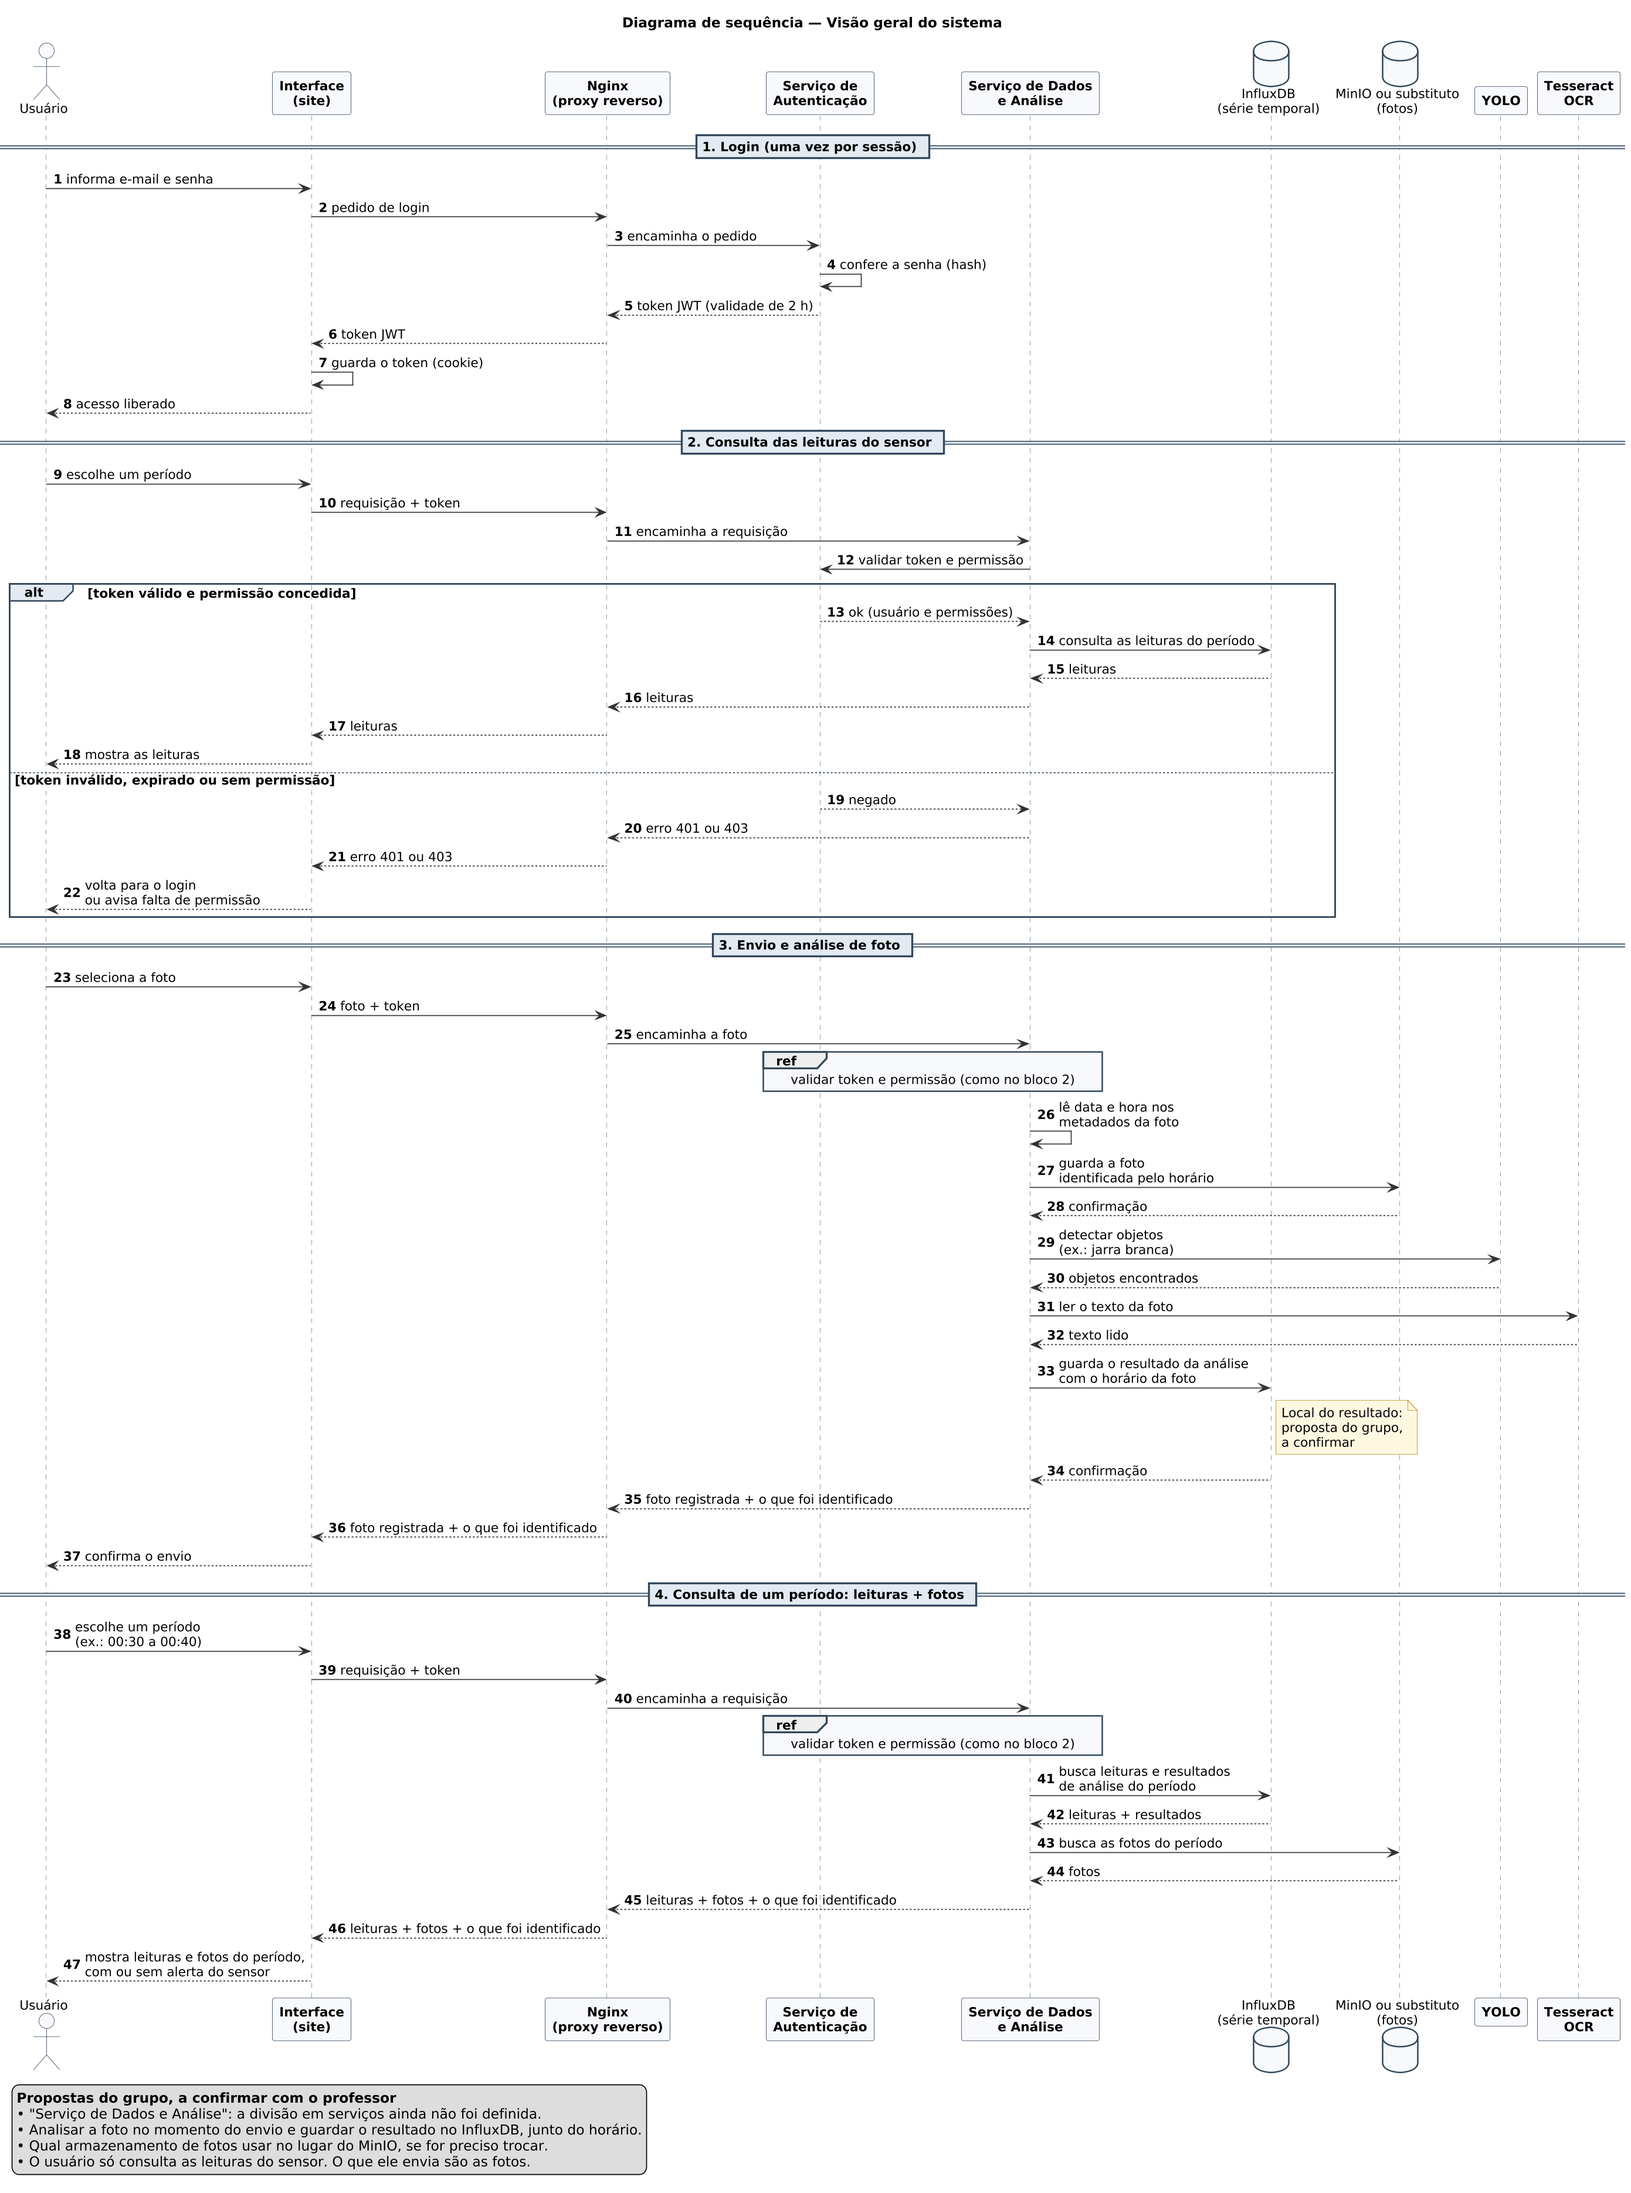
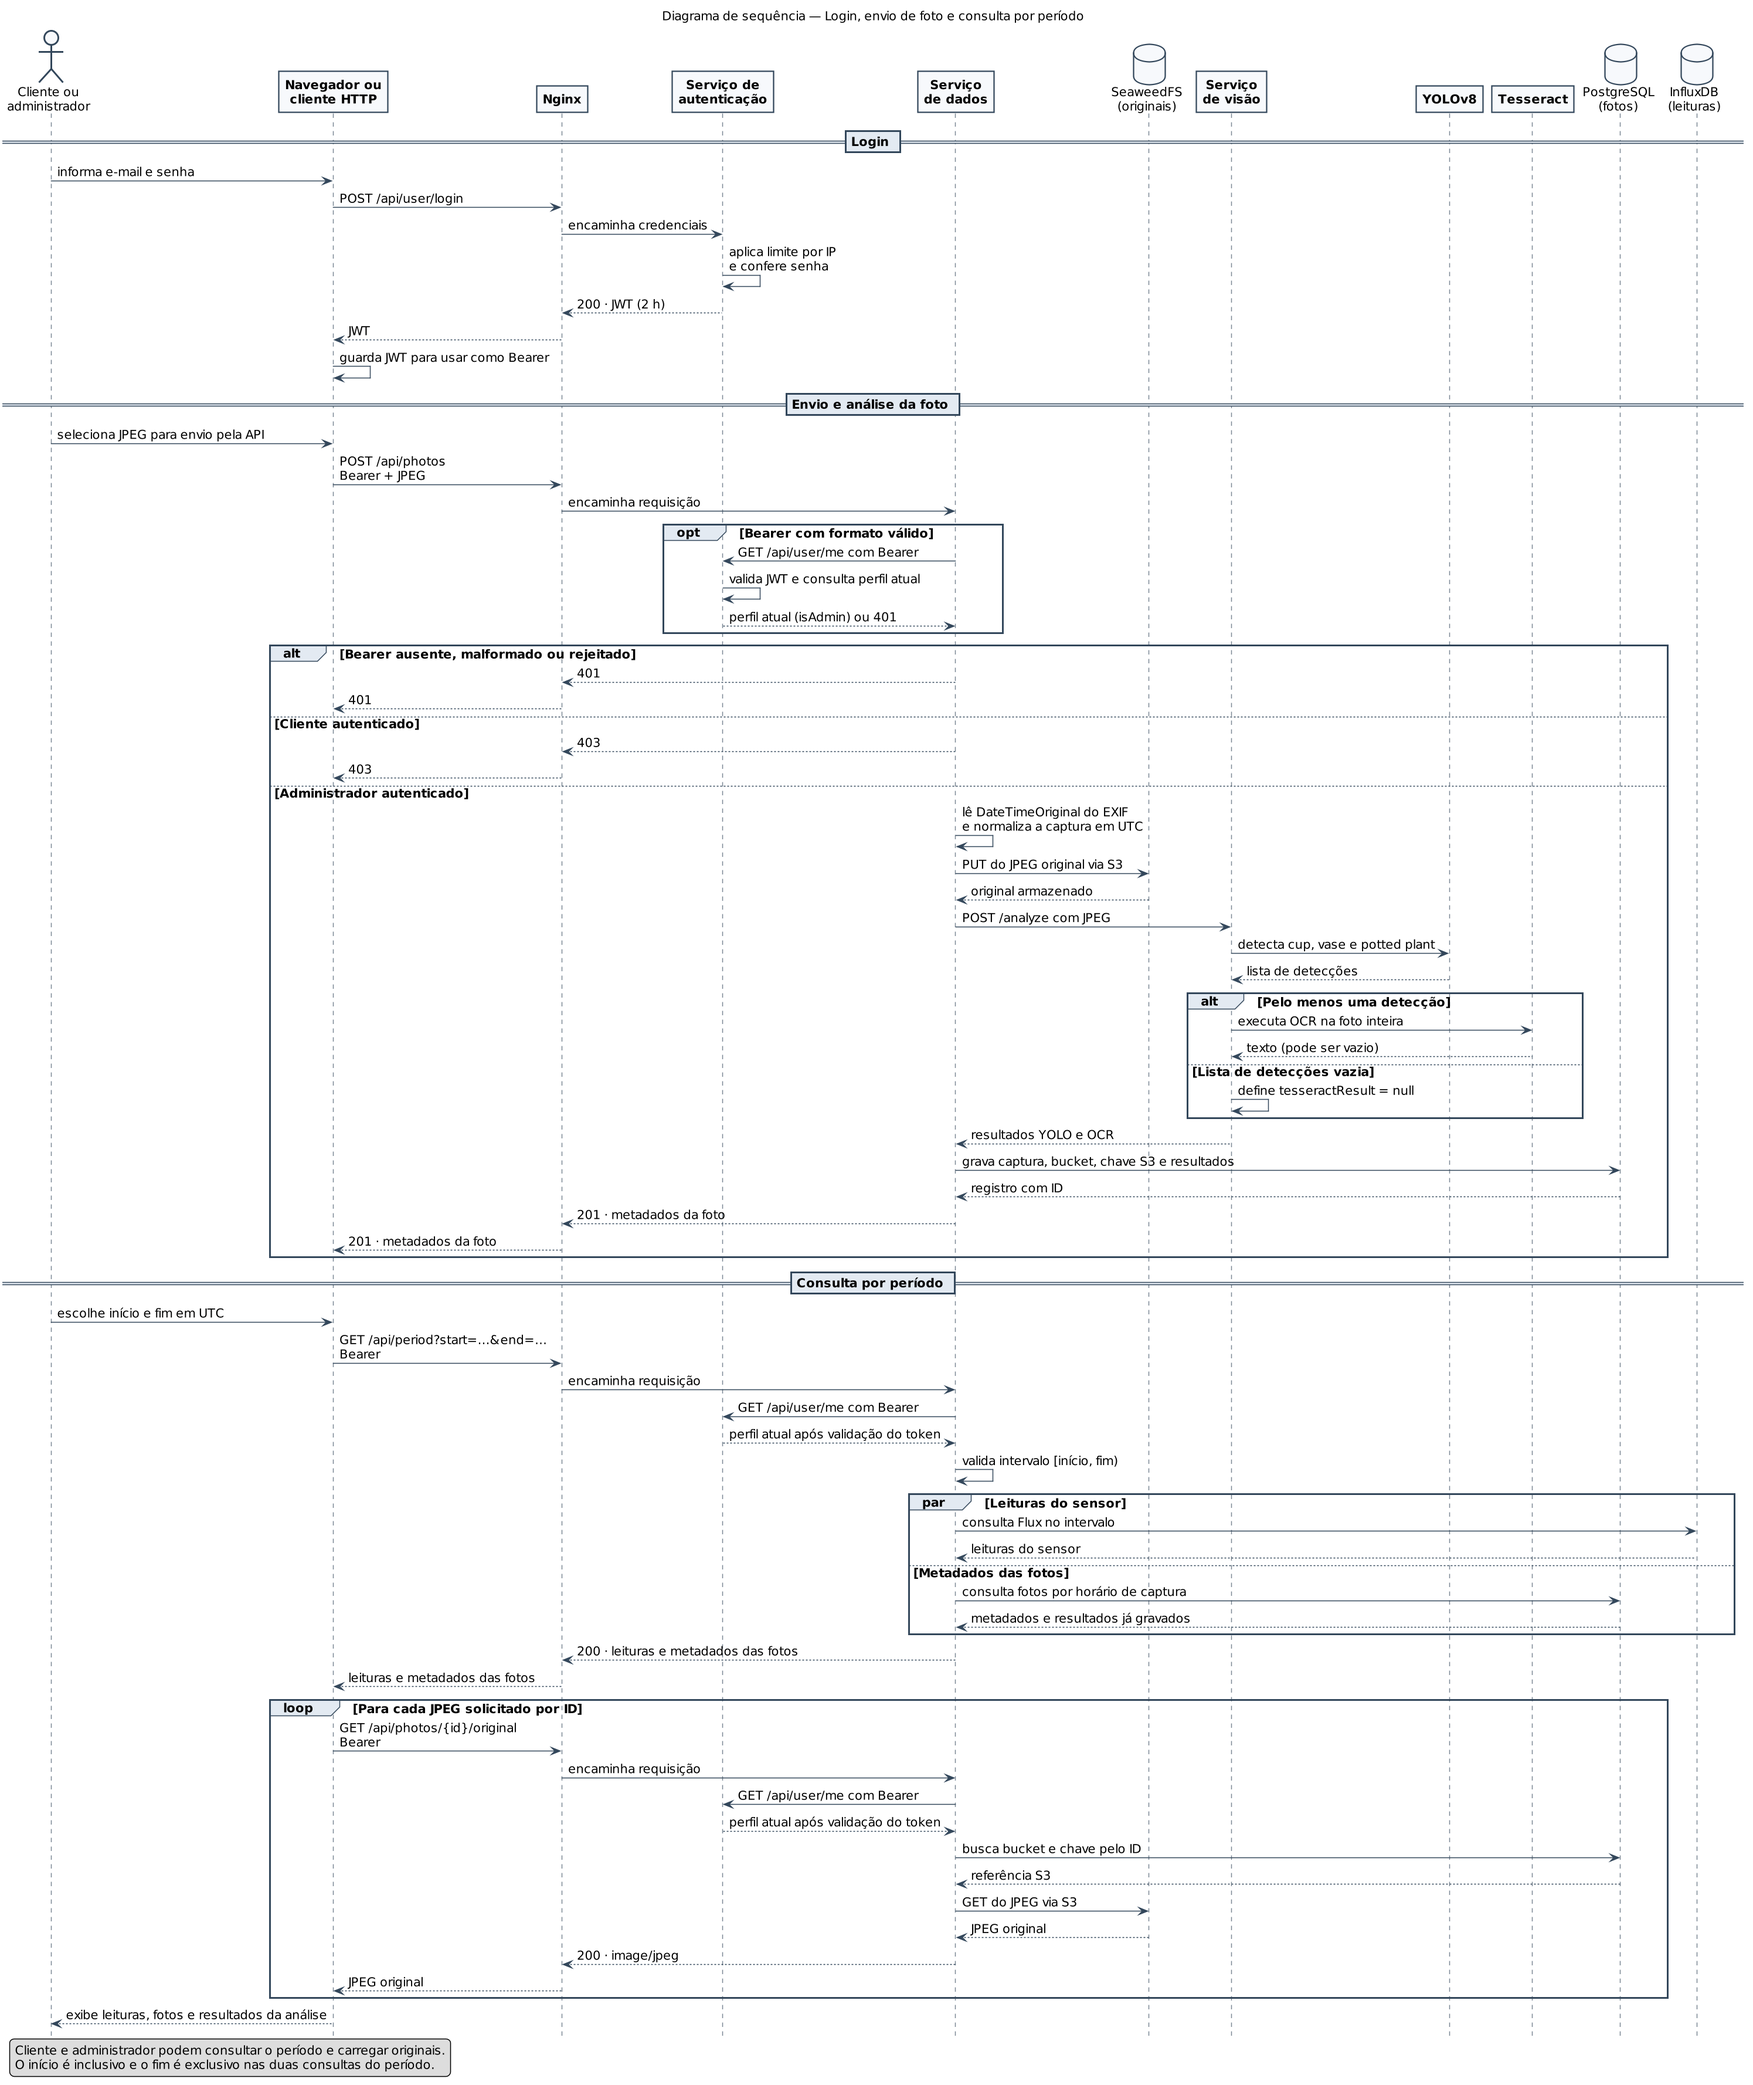
Atualiza os diagramas UML da entrega

diff --git a/backlog/tasks/task-12 - Atualizar-os-diagramas-UML.md b/backlog/tasks/task-12 - Atualizar-os-diagramas-UML.md
@@ -1,11 +1,18 @@
 ---
 id: TASK-12
 title: Atualizar os diagramas UML
-status: To Do
-assignee: []
+status: Done
+assignee:
+  - '@codex'
 created_date: '2026-11-17 22:38'
+updated_date: '2026-11-22 00:49'
 labels: []
 dependencies: []
+modified_files:
+  - docs/diagramas/diagrama_estado_sessao.puml
+  - docs/diagramas/diagrama_estado_sessao.png
+  - docs/diagramas/diagrama_sequencia_visao_geral.puml
+  - docs/diagramas/diagrama_sequencia_visao_geral.png
 ordinal: 12000
 ---
 
@@ -17,6 +24,26 @@ Os diagramas apresentados em 17/11 precisam refletir as definições que passara
 
 ## Acceptance Criteria
 <!-- AC:BEGIN -->
-- [ ] #1 Os diagramas de estado e sequência existentes refletem os perfis de cliente e administrador e a consulta ao InfluxDB.
-- [ ] #2 Os diagramas representam o envio, o armazenamento das fotos no SeaweedFS, o OCR condicionado à detecção e a consulta por período.
+- [x] #1 Os diagramas de estado e sequência existentes refletem os perfis de cliente e administrador e a consulta ao InfluxDB.
+- [x] #2 Os diagramas representam o envio, o armazenamento das fotos no SeaweedFS, o OCR condicionado à detecção e a consulta por período.
 <!-- AC:END -->
+
+## Implementation Plan
+
+<!-- SECTION:PLAN:BEGIN -->
+1. Confrontar os diagramas de 17/11 com as rotas, as permissões e o fluxo de fotos implementados.
+2. Atualizar as duas fontes PlantUML com o ciclo de sessão, as regras dos perfis e as interações de envio e consulta.
+3. Regenerar os PNGs e revisar a legibilidade e a correspondência com a implementação.
+<!-- SECTION:PLAN:END -->
+
+## Implementation Notes
+
+<!-- SECTION:NOTES:BEGIN -->
+As duas imagens foram revisadas visualmente e reproduzidas a partir das fontes PlantUML. A revisão cruzou as permissões e rotas do autenticador e do serviço de dados, a consulta paralela ao InfluxDB e ao PostgreSQL, a recuperação do original por ID e a condição do Tesseract no serviço de visão. Os 10 testes do serviço de dados passaram.
+<!-- SECTION:NOTES:END -->
+
+## Final Summary
+
+<!-- SECTION:FINAL_SUMMARY:BEGIN -->
+Atualizados os diagramas de estados e de sequência apresentados em 17/11. Os diagramas mostram as permissões de cliente e administrador, a consulta por período no InfluxDB e no PostgreSQL, o JPEG original no SeaweedFS e a execução do OCR quando o YOLO retorna pelo menos uma detecção. As fontes PlantUML e os PNGs estão em docs/diagramas.
+<!-- SECTION:FINAL_SUMMARY:END -->
